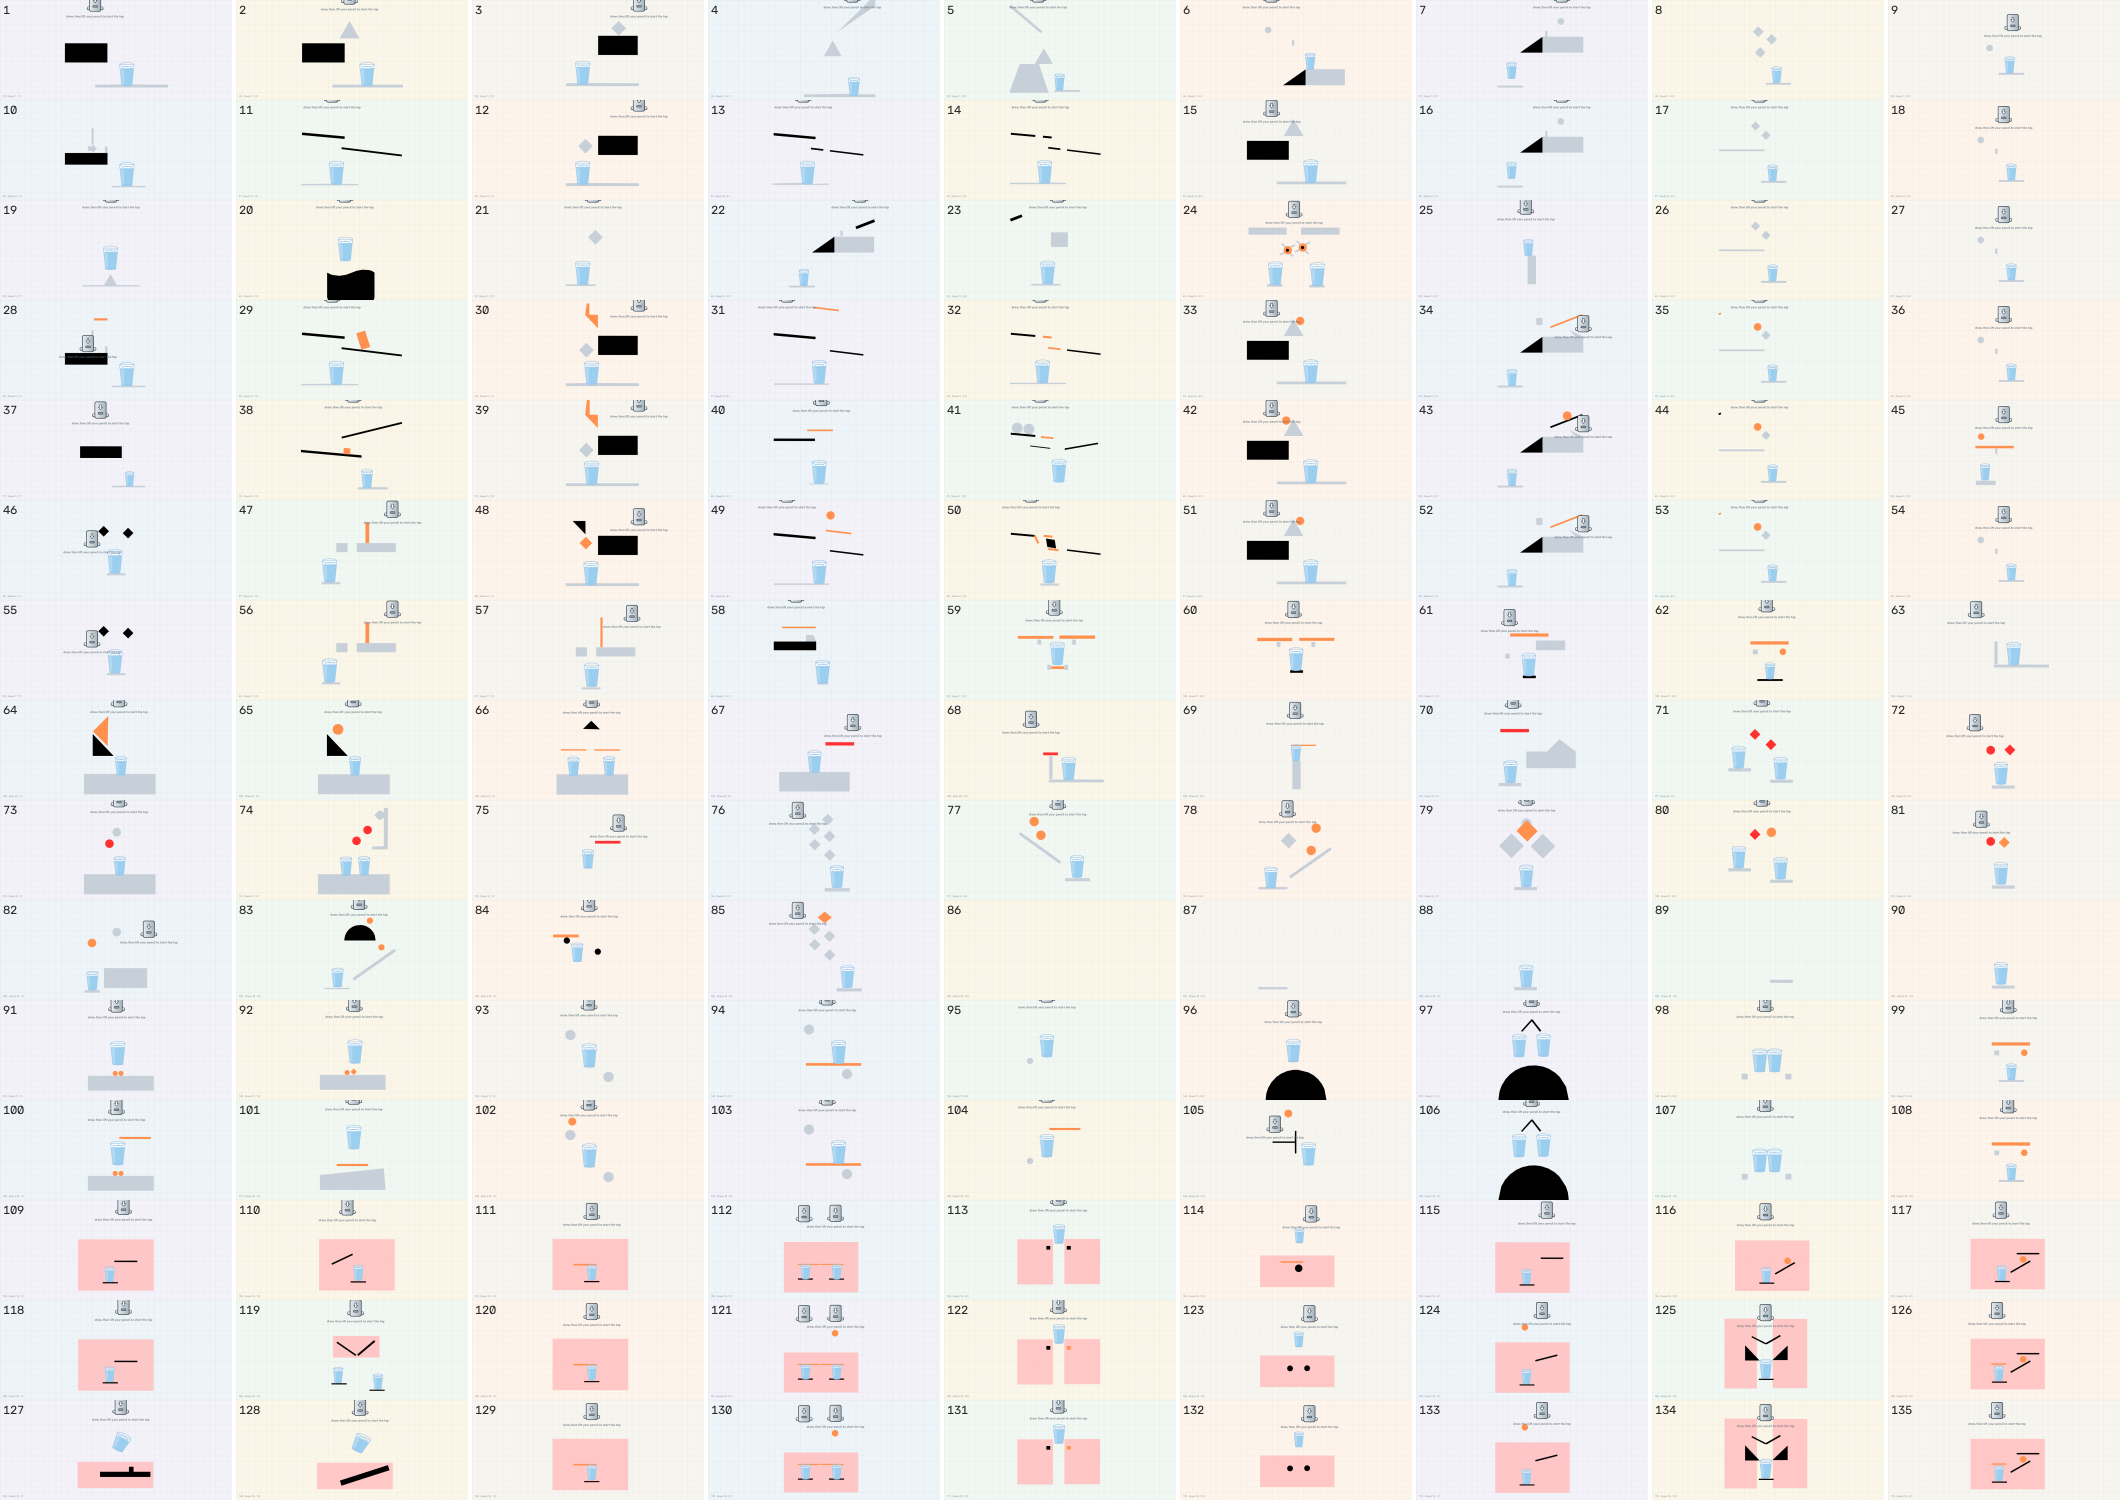
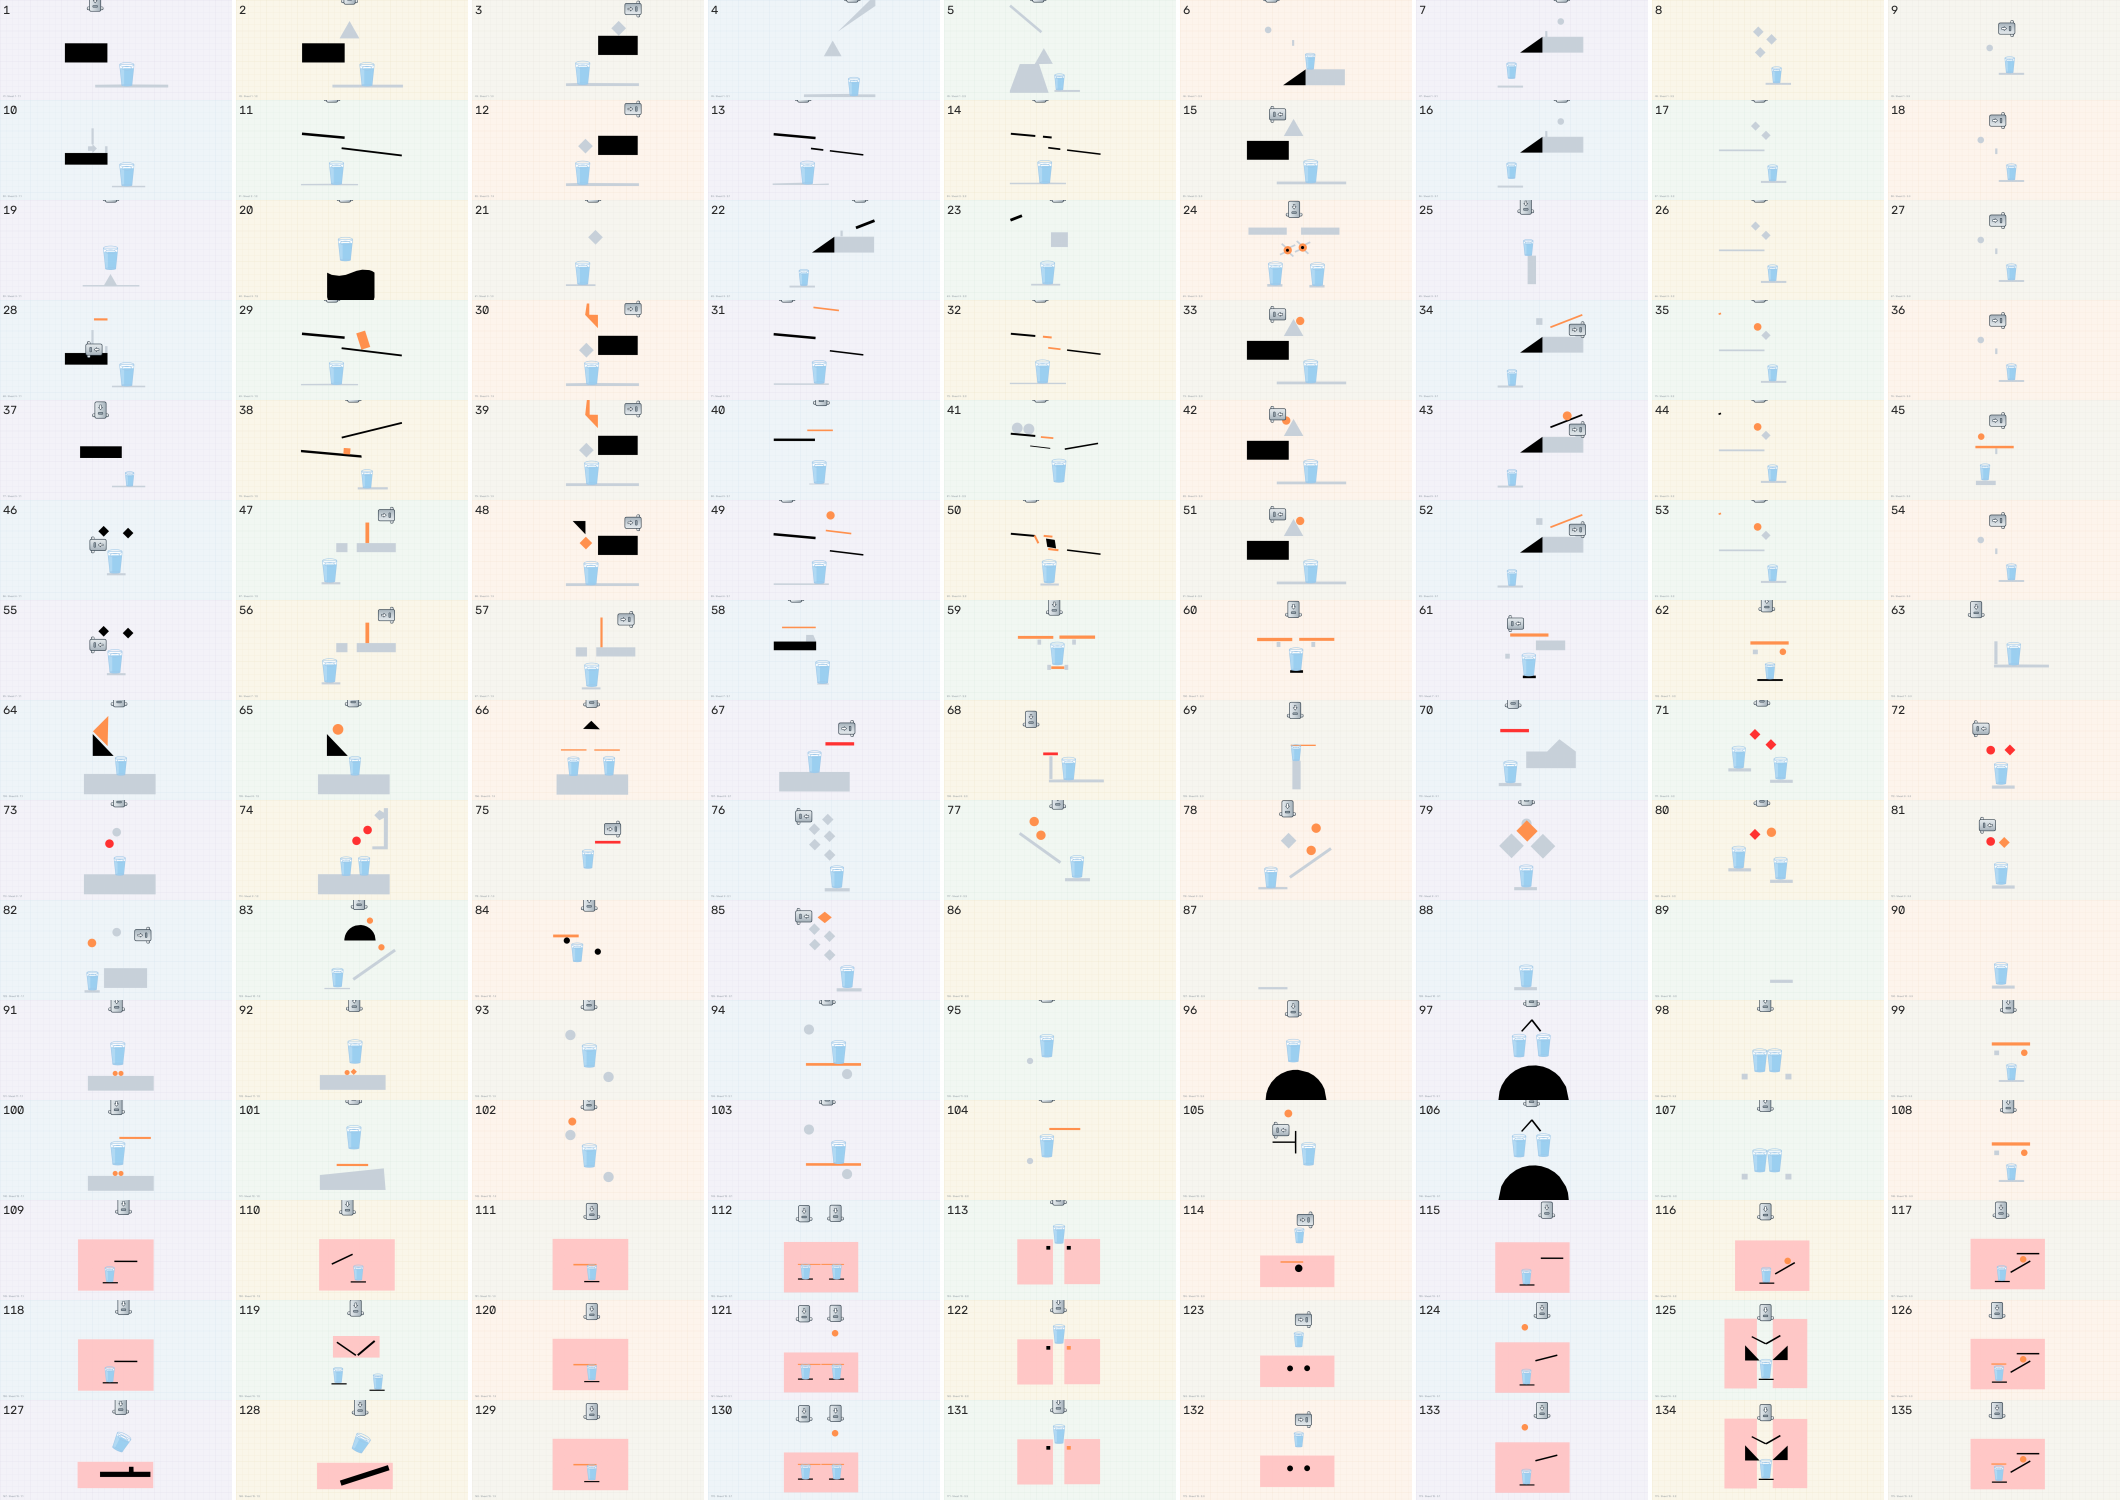
Keep the start hint out of the room's own drawing
The hint sat at a fixed offset under the first tap, which is fine in the
authored rooms but lands inside the cell when a copied room puts its tap low.
It now sits in the empty strip under the ink bar, and is dropped entirely if a
room's tap is too close to that strip to leave room for it.

Also refresh the room index and the shape check (456/487 shapes are drawn in
their own colour and place; the rest are 2-3 px hairlines).

diff --git a/js/render.js b/js/render.js
@@ -1339,12 +1339,18 @@
       const f = scene.faucets[0];
       if (!f) return;
       const pulse = (Math.sin(this.t * 0.004) + 1) / 2;
+      // The hint belongs in the empty strip under the ink bar, not at a fixed
+      // offset from the tap: a copied room can put its tap low in the cell, and
+      // the text then landed on top of the room's own scenery. On those the
+      // line is dropped rather than written over the drawing.
+      const y = 158;
+      if (f.y < y + 10) return;
       ctx.save();
       ctx.globalAlpha = 0.45 + pulse * 0.4;
       ctx.fillStyle = C.inkSoft;
       ctx.font = '600 17px Fredoka, sans-serif';
       ctx.textAlign = 'center';
-      ctx.fillText('draw, then lift your pencil to start the tap', f.x, f.y + 46);
+      ctx.fillText('draw, then lift your pencil to start the tap', f.x, y);
       ctx.restore();
     }
 
